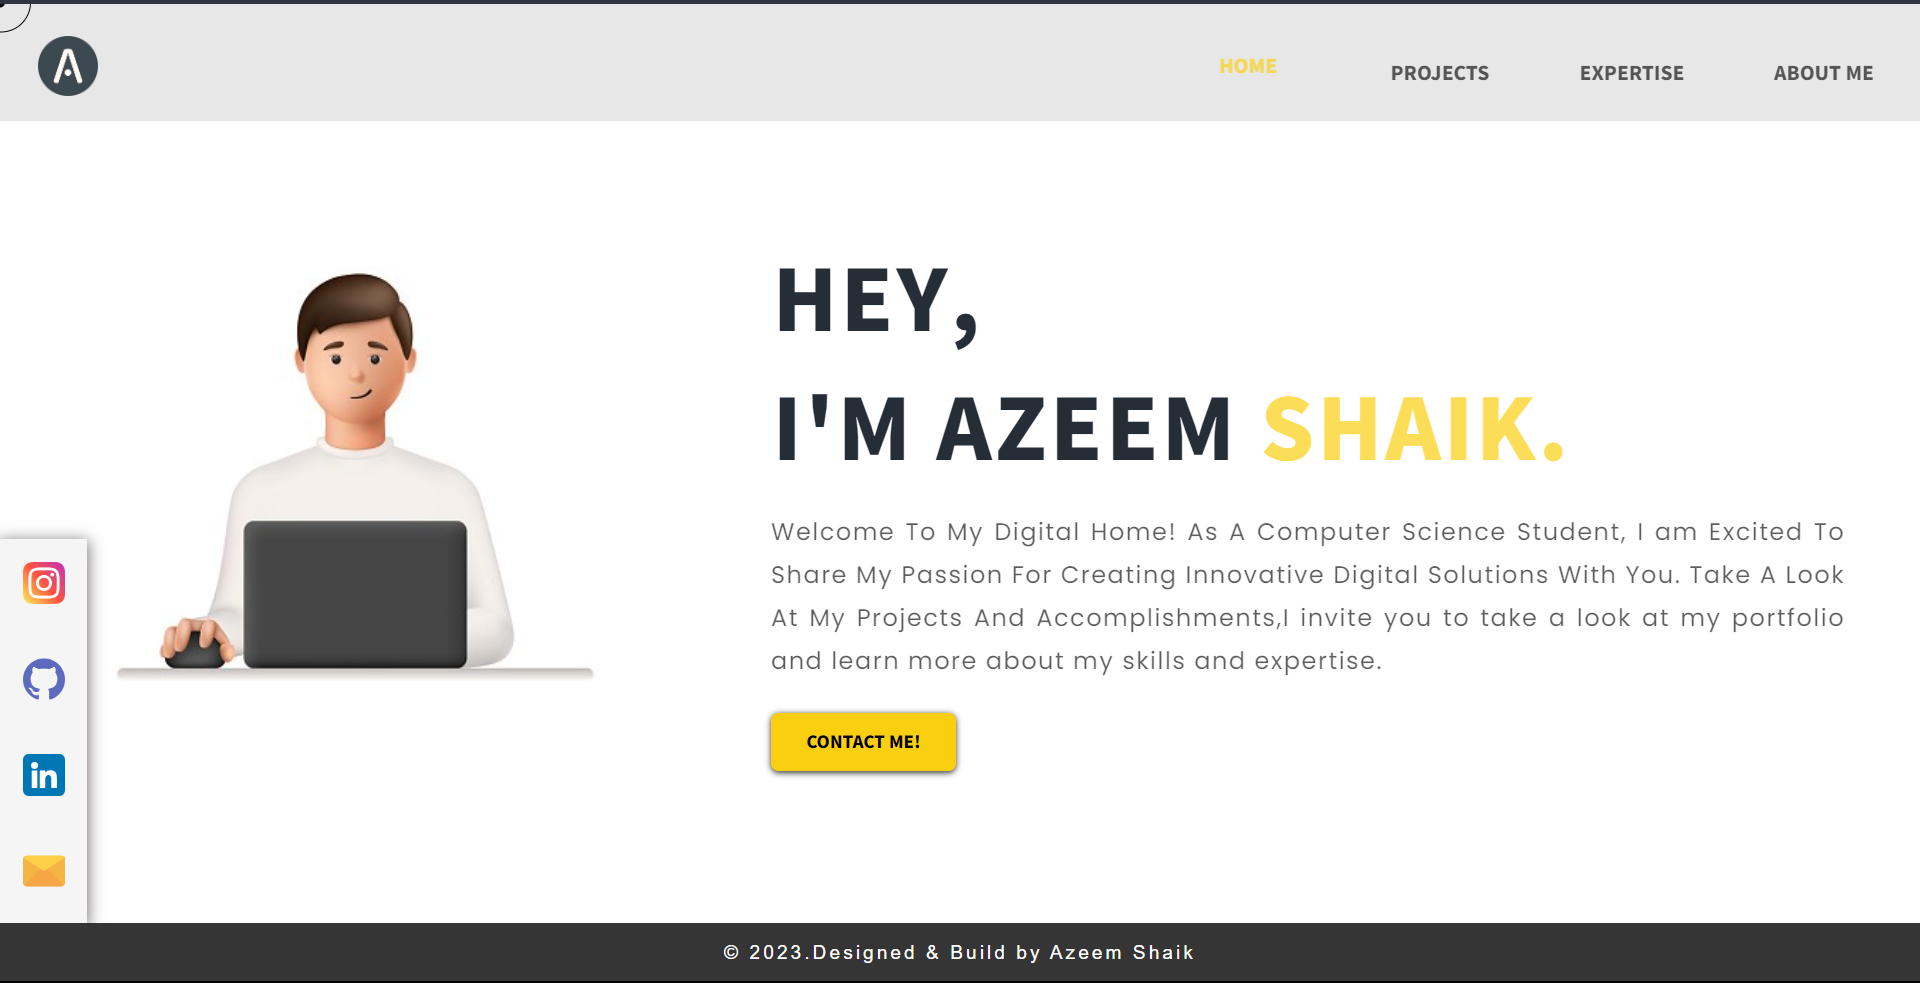
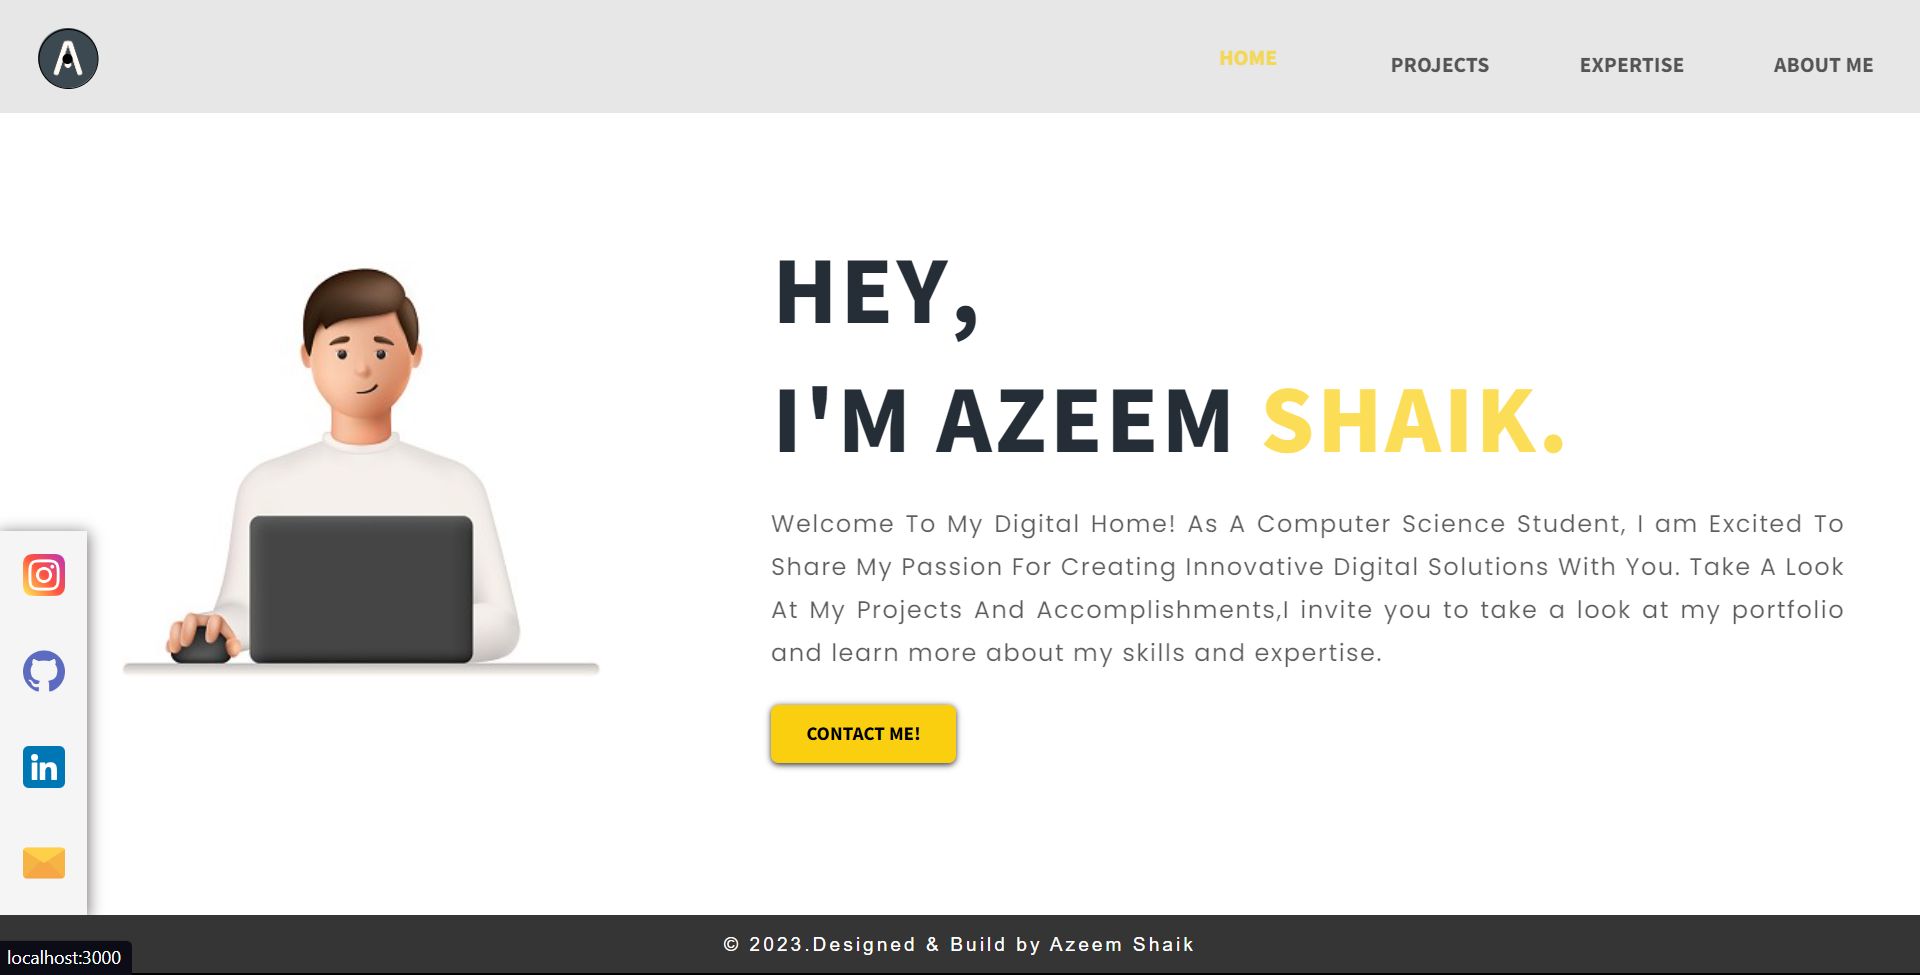
Update Animations

diff --git a/public/JS/static.js b/public/JS/static.js
@@ -116,16 +116,11 @@ if (window.location.pathname.includes("/index") || (!window.location.pathname.in
 
     //Guy with a laptop image parallax movement
 
-    var x_value, y_value;
-
-    const element = document.querySelector("#Home");
-
-    element.addEventListener("mouseover", (e) => {
-        const x = e.clientX;
-        const y = e.clientY;
-        const boy = document.querySelector(".boyImage");
-        boy.style.transform = `translate3d(${-(x / 70) * 0.5}px, ${-(y / 70) * 0.5}px,0)`;
-    })
+    const slidingAnimation = (e) => {
+        const boyImage = document.querySelector('.boyImage');
+        gsap.to(boyImage, { x: e.x / 50, y: e.y / 50 });
+    }
+    window.addEventListener("mousemove", slidingAnimation);
 
     // FIXING THE TEXT LENGTH FOR MOBILE DEVICES
 
@@ -224,20 +219,18 @@ else if (window.location.pathname.includes("/projects")) {
         ShowProject(start);
     }
 
-    var x_value, y_value;
+    // ANIMATING PROJECT IMAGE
 
-    const element = document.querySelector("#ProjectPage");
-
-    element.addEventListener("mouseover", (e) => {
-        const x = e.clientX;
-        const y = e.clientY;
-        const projectPhoto1 = document.querySelector(".lp1 img");
-        const projectPhoto2 = document.querySelector(".lp2 img");
-        const projectPhoto3 = document.querySelector(".lp3 img");
-        projectPhoto1.style.transform = `translate3d(${-(x / 60)}px, ${-(y / 60)}px,0)`;
-        projectPhoto2.style.transform = `translate3d(${-(x / 60)}px, ${-(y / 60)}px,0)`;
-        projectPhoto3.style.transform = `translate3d(${-(x / 60)}px, ${-(y / 60)}px,0)`;
-    });
+    const animateProjects = (e) => {
+        console.log(e.x, e.y);
+        const projectPhoto1 = document.querySelector("#project-image1");
+        const projectPhoto2 = document.querySelector("#project-image2");
+        const projectPhoto3 = document.querySelector("#project-image3");
+        gsap.to(projectPhoto1, { x: e.x / 100, y: e.y / 100, delay: 0.1 });
+        gsap.to(projectPhoto2, { x: e.x / 100, y: e.y / 100, delay: 0.1 });
+        gsap.to(projectPhoto3, { x: e.x / 100, y: e.y / 100, delay: 0.1 });
+    }
+    window.addEventListener('mousemove', animateProjects);
 
 
 
